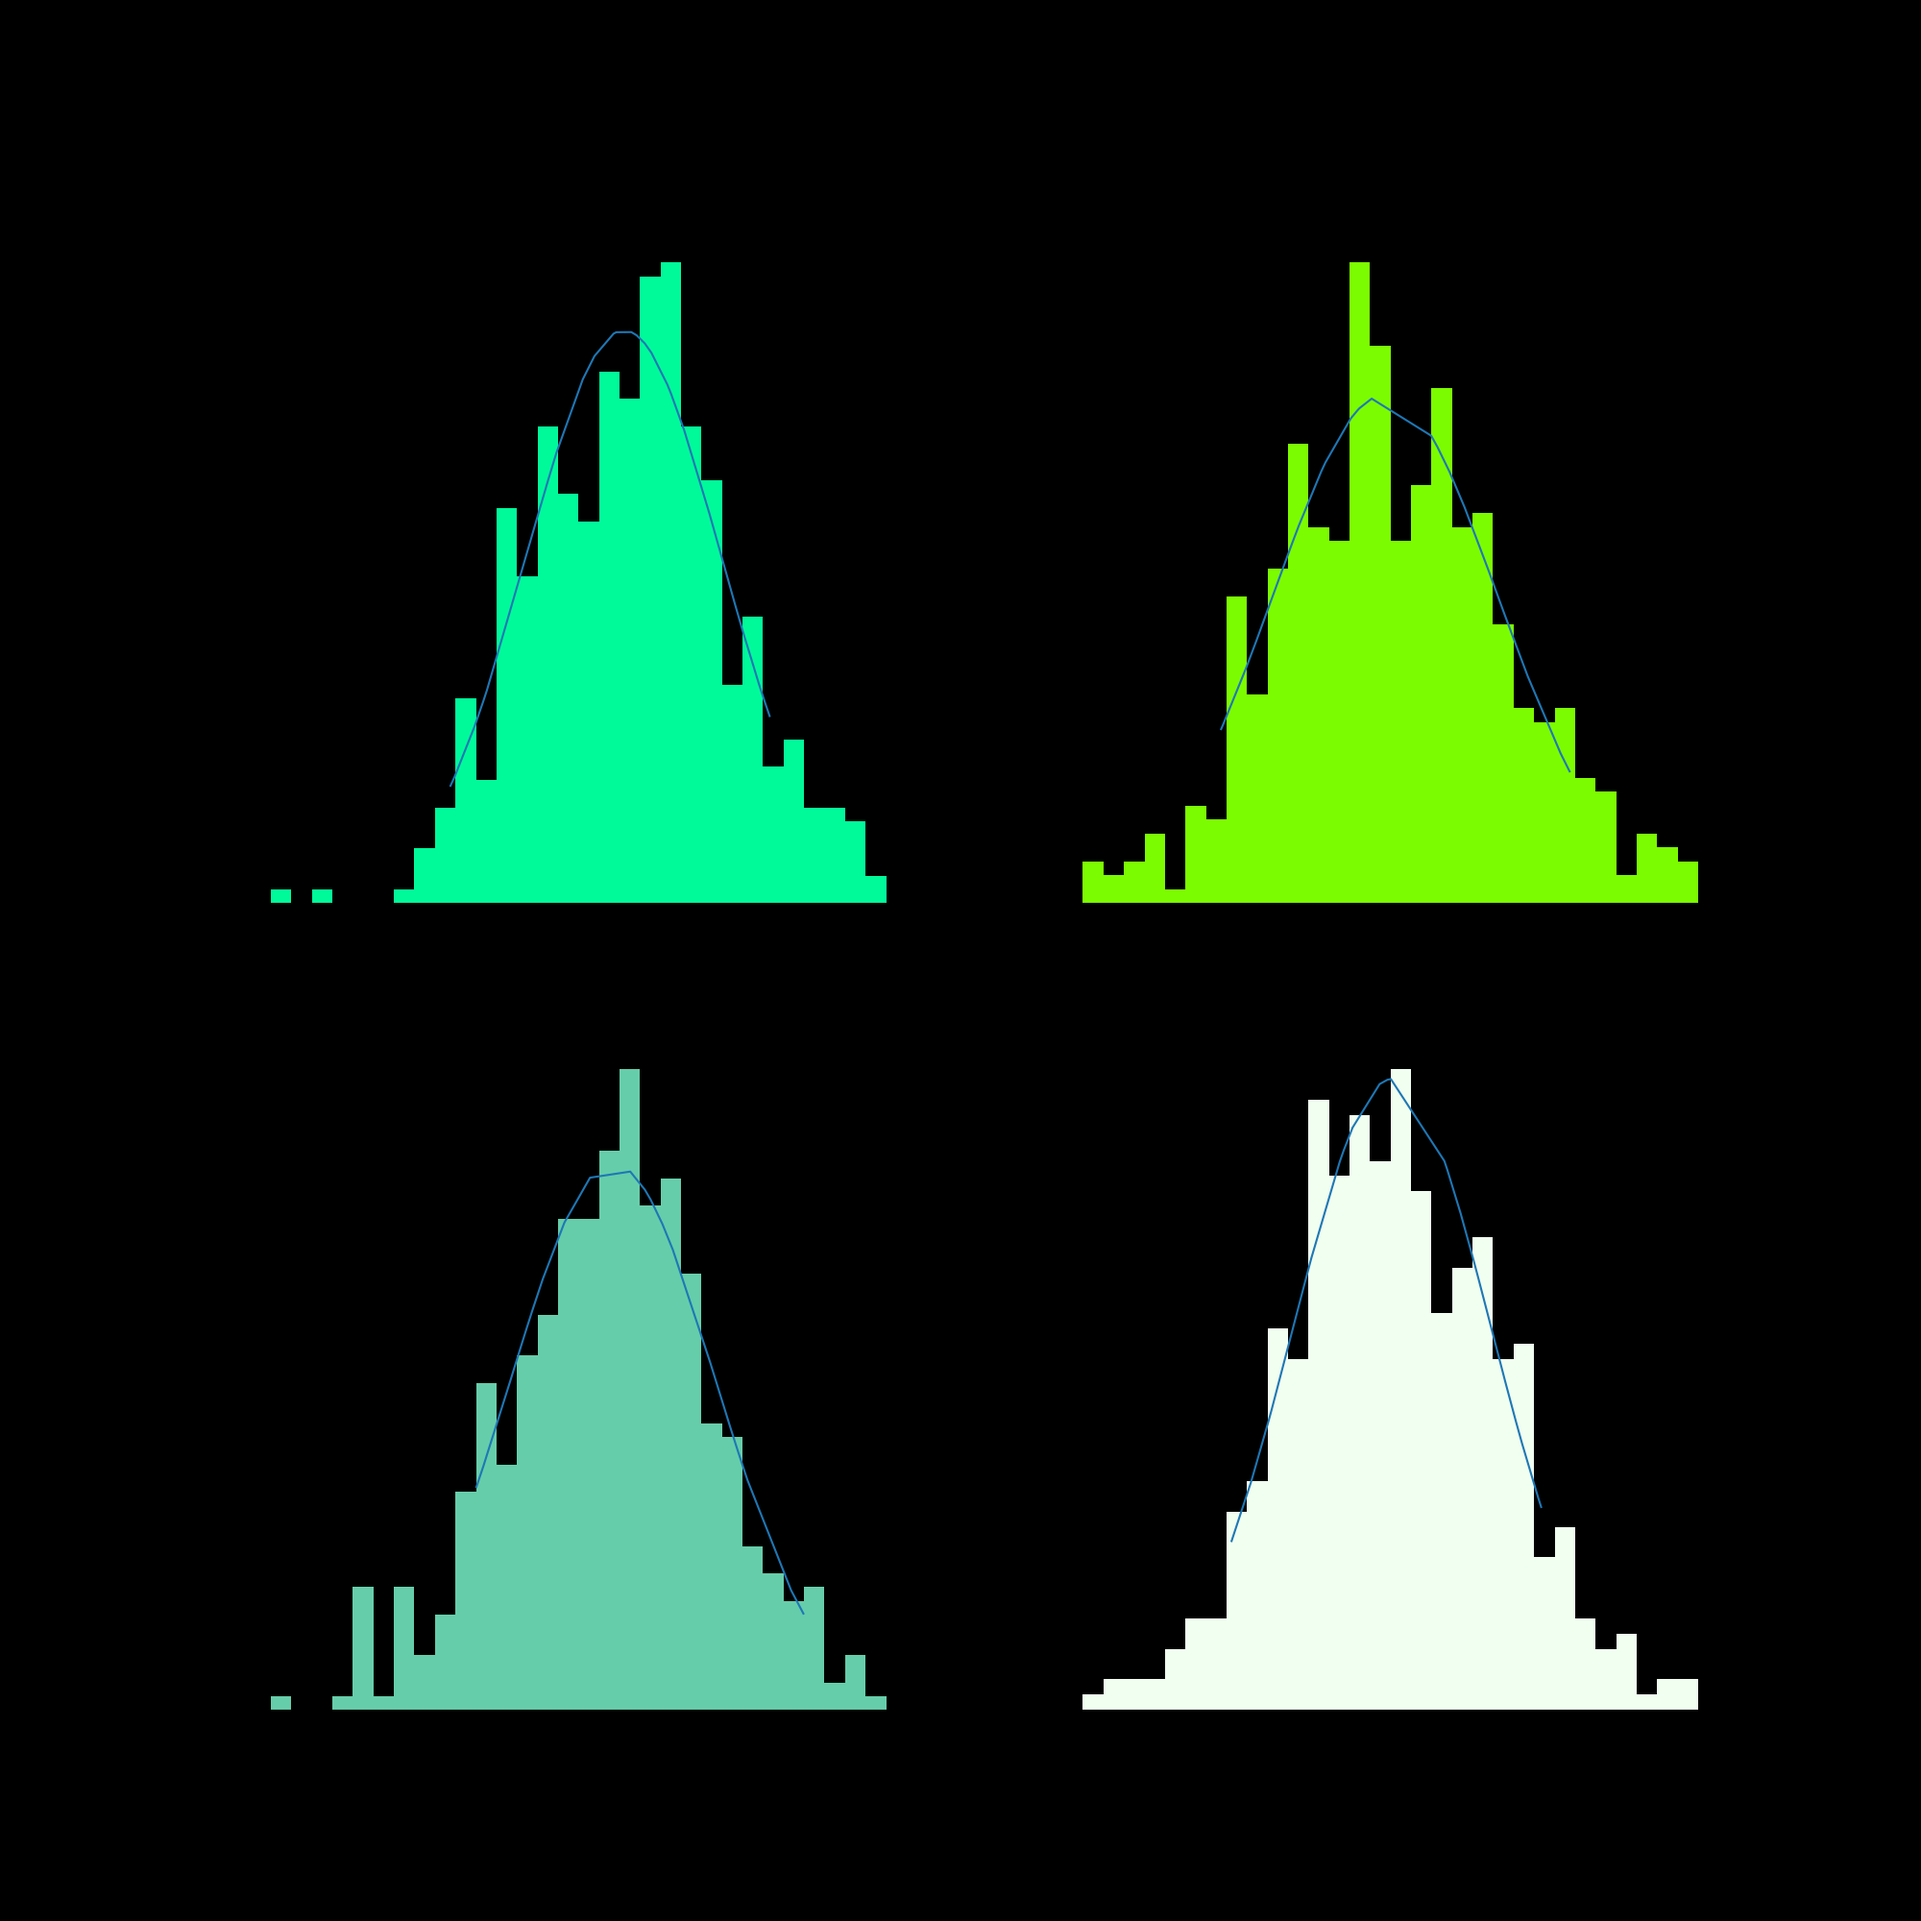
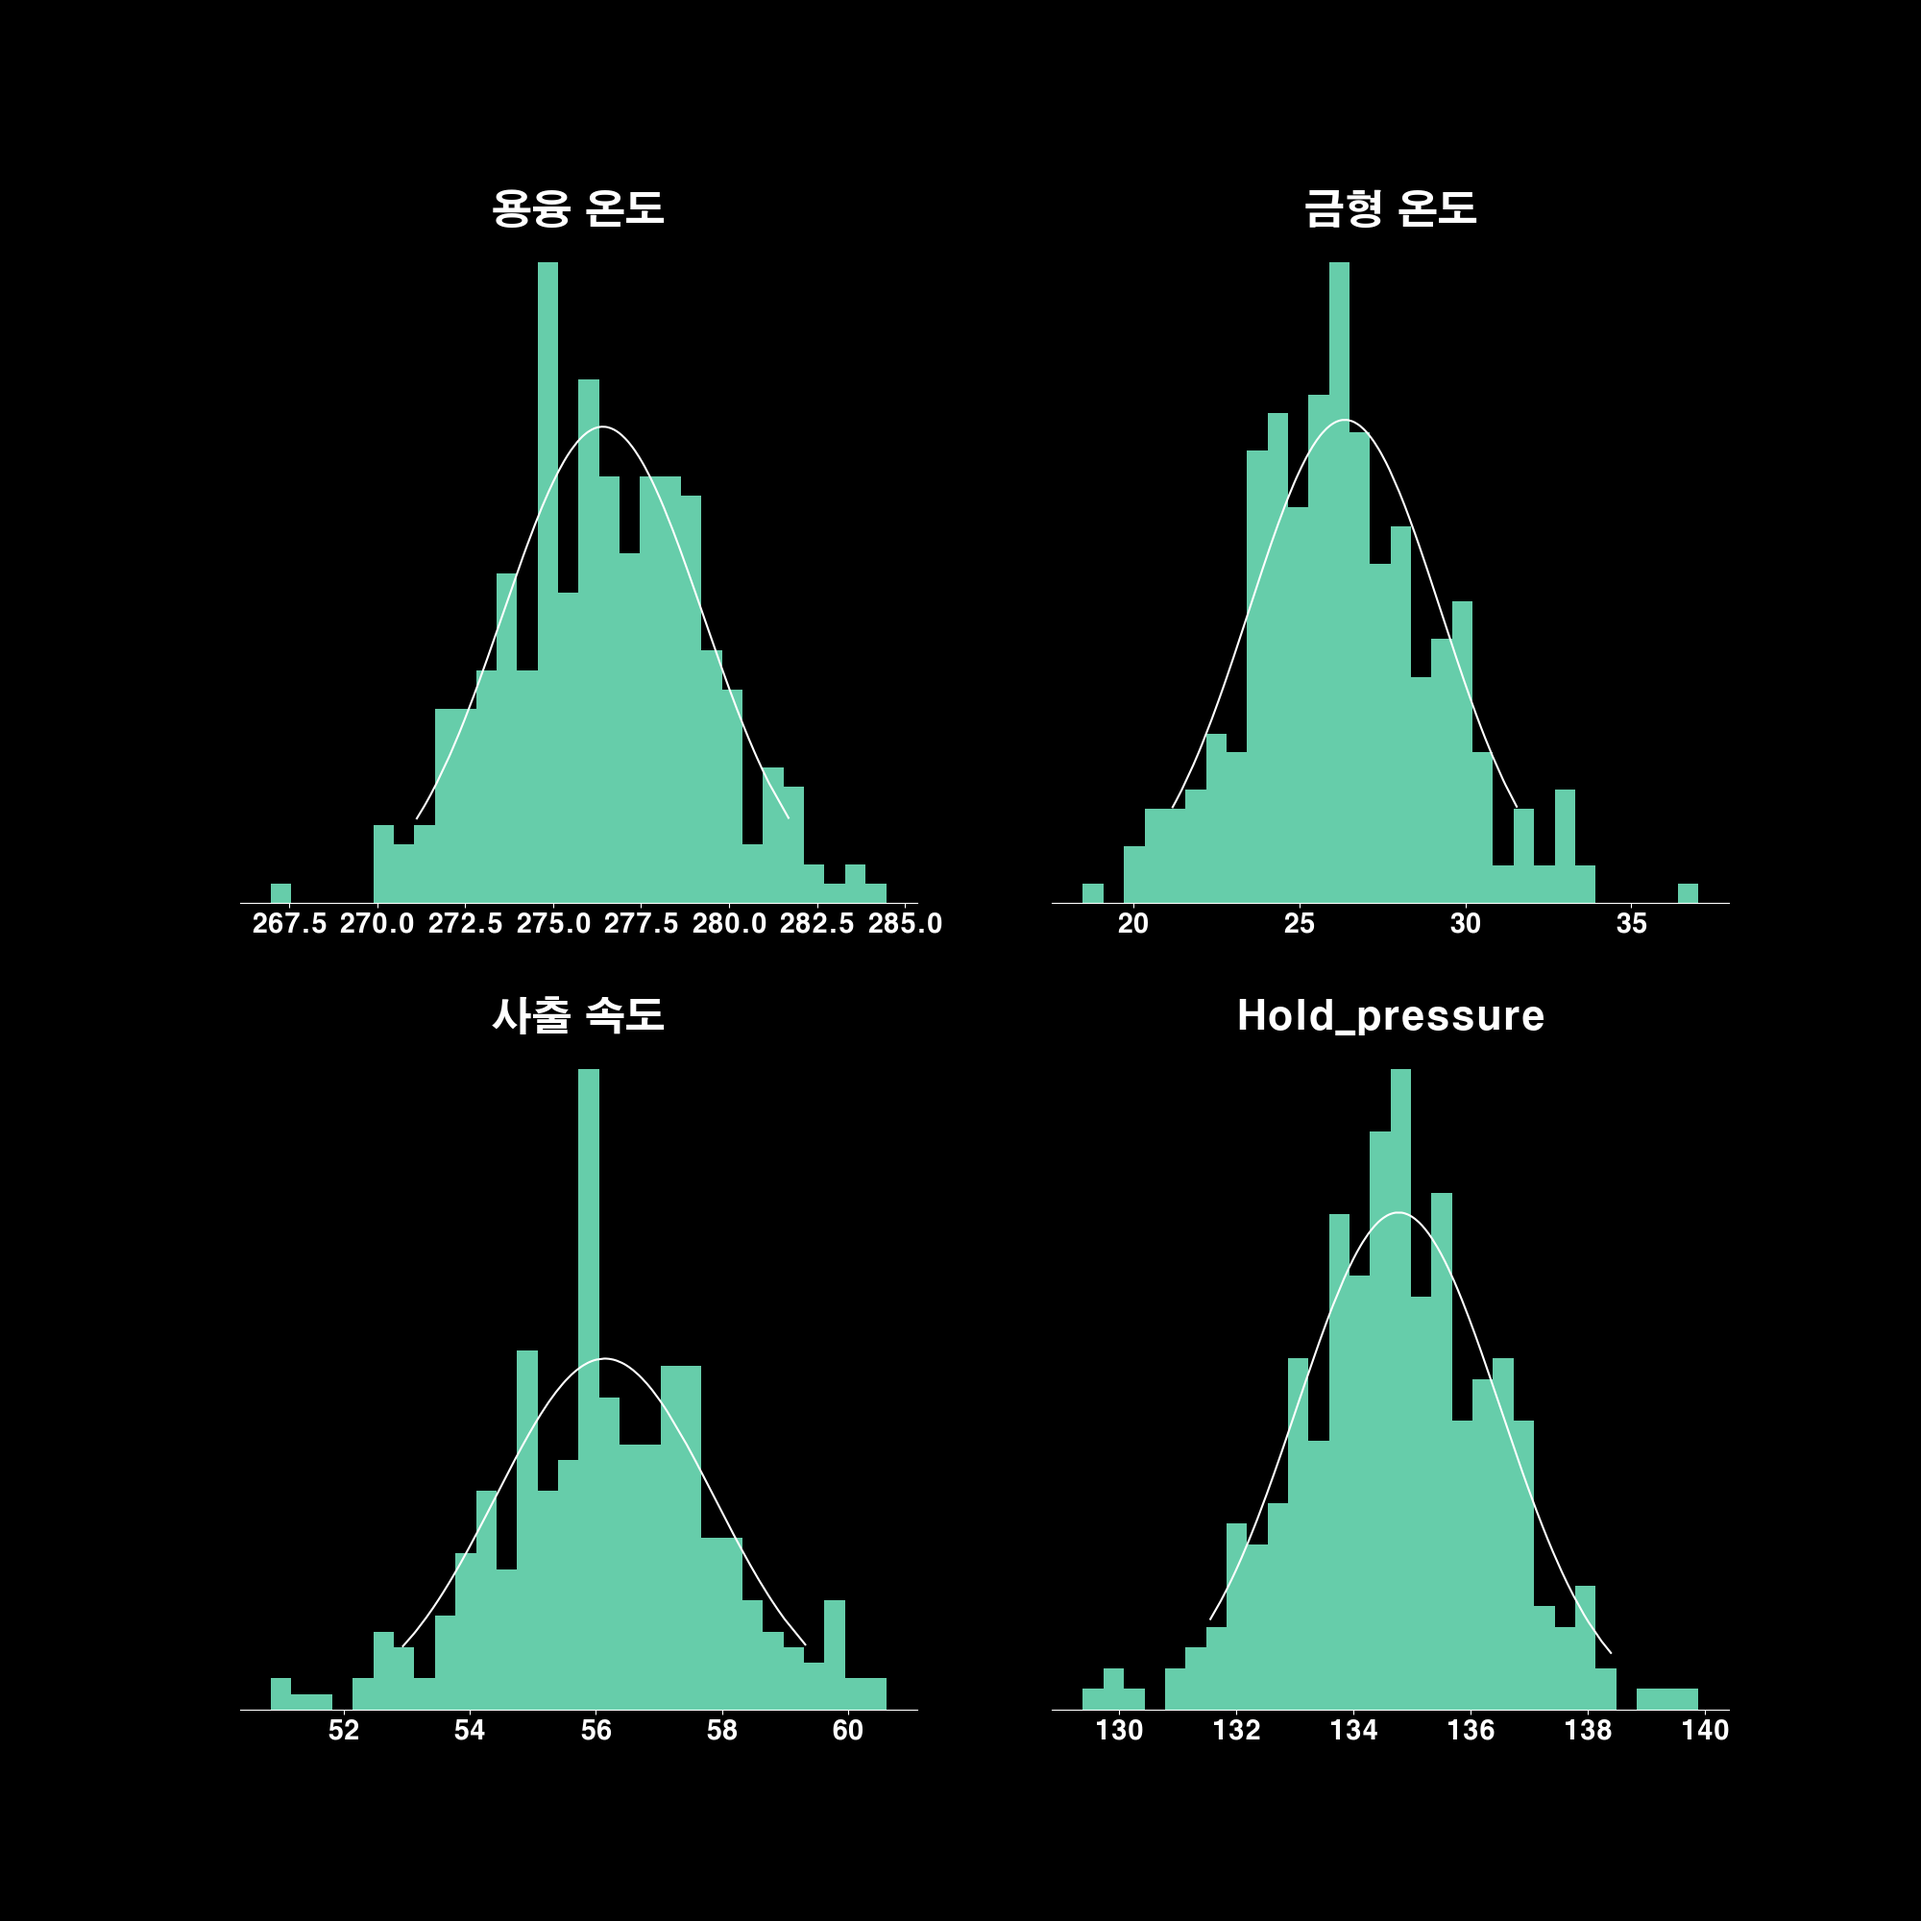
ckj

diff --git a/def.js b/def.js
@@ -33,15 +33,28 @@ router.get("/", function(req,res){
                 if(err){
                     console.log(err)
                 }else{
+                    if(result.length==0){
+                        yy = 0
+                        nn = 0
+                        crack = 0
+                        color = 0
+                        size = 0
+                    }else{
+                        yy = result[0].yy
+                        nn = result[0].nn
+                        crack = result[0].crack
+                        color = result[0].color
+                        size =  result[0].size
+                    }
                     res.render("defect",{
                         "defect" : result,
                         "linkcode" : req.session.logged.linkcode,
                         "run" : req.session.run,
-                        "Y" : result[0].yy,
-                        "N" : result[0].nn,
-                        "crack" : result[0].crack,
-                        "color" : result[0].color,
-                        "size" : result[0].size,
+                        "Y" : yy,
+                        "N" : nn,
+                        "crack" : crack,
+                        "color" : color,
+                        "size" : size,
                         "today" : today,
                         "lastM" : moment().subtract(1, 'M').format("YYYY-MM-DD")
                     })

diff --git a/pro.js b/pro.js
@@ -22,7 +22,7 @@ router.get("/",function(req,res){
             res.redirect("/alert")
         }else{
             connection.query(
-                `select * from performance order by order_id`,
+                `select * from performance order by order_id desc`,
                 function(err, result){
                     if(err){
                         console.log(err);
@@ -31,7 +31,8 @@ router.get("/",function(req,res){
                         res.render("product",{
                             "date" : date,
                             "performance" : result,
-                            "linkcode" : req.session.logged.linkcode
+                            "linkcode" : req.session.logged.linkcode,
+                            "date2" : moment().format("YYYYMMDD")
                         })
                     }
                 }
@@ -160,5 +161,6 @@ router.get("/register", function(req, res){
         }
     )
 })
+
 
 module.exports = router

diff --git a/update.js b/update.js
@@ -98,9 +98,8 @@ module.exports={
                                 if(err){
                                     console.log(err)
                                 }else{
-                                    var n=0;
+                                    var n=result[0].total;
                                     for (var i=0; i<result.length; i++){
-                                        n += result[i].quantity
                                         if (result[0].cnt<n){
                                             break
                                         }else if (result[0].cnt==n){

diff --git a/public/py/xchart.py b/public/py/xchart.py
@@ -4,6 +4,8 @@ import pymysql as mysql
 import datetime as dt
 import matplotlib.pyplot as plt
 import numpy as np
+import matplotlib.font_manager as fm
+from matplotlib import rc
 
 with open("db.json","r") as f:
     data = json.load(f)
@@ -47,34 +49,42 @@ mold_y = (1/np.sqrt(2*np.pi*mold_s**2)) * np.exp(-(mold_set-mold_m)**2/(2*mold_s
 melt_y = (1/np.sqrt(2*np.pi*melt_s**2)) * np.exp(-(melt_set-melt_m)**2/(2*melt_s**2))
 hold_y = (1/np.sqrt(2*np.pi*hold_s**2)) * np.exp(-(hold_set-hold_m)**2/(2*hold_s**2))
 inj_y = (1/np.sqrt(2*np.pi*inj_s**2)) * np.exp(-(inj_set-inj_m)**2/(2*inj_s**2))
-mold_y0 = np.random.normal(mold_m, mold_s, 500)
-melt_y0 = np.random.normal(melt_m, melt_s, 500)
-hold_y0 = np.random.normal(hold_m, hold_s, 500)
-inj_y0 = np.random.normal(inj_m, inj_s, 500)
+mold_y0 = np.random.normal(mold_m, mold_s, 300)
+melt_y0 = np.random.normal(melt_m, melt_s, 300)
+hold_y0 = np.random.normal(hold_m, hold_s, 300)
+inj_y0 = np.random.normal(inj_m, inj_s, 300)
 
+font=fm.FontProperties(fname='C:/Windows/Fonts/H2GTRE.TTF').get_name()
+rc('font',family=font)
 fig, ax = plt.subplots(2,2, figsize = (20,20))
-ax[0,0].set_facecolor("black")
-ax[0,0].xticks(color="white")
+
+ax[0,0].tick_params(axis="x",colors="white", labelsize=20)
 ax[0,0].spines['bottom'].set_color('white')
-ax[0,0].plot(melt_set,melt_y)
-ax[0,0].hist(melt_y0, density=True, bins=30, color="mediumspringgreen")
-ax[0,0].set_title("Melt_temp")
+ax[0,0].set_facecolor("black")
+ax[0,0].plot(melt_set,melt_y, color="white")
+ax[0,0].hist(melt_y0, density=True, bins=30, color="mediumaquamarine")
+ax[0,0].set_title("용융 온도", fontdict={'fontsize': 30, 'fontweight': 'bold'}, color="white")
 
+ax[0,1].tick_params(axis="x",colors="white", labelsize=20)
+ax[0,1].spines['bottom'].set_color('white')
 ax[0,1].set_facecolor("black")
-ax[0,1].plot(mold_set,mold_y)
-ax[0,1].hist(mold_y0, density=True, bins=30, color="lawngreen")
-ax[0,1].set_title("Mold_temp")
+ax[0,1].plot(mold_set,mold_y, color="white")
+ax[0,1].hist(mold_y0, density=True, bins=30, color="mediumaquamarine")
+ax[0,1].set_title("금형 온도", fontdict={'fontsize': 30, 'fontweight': 'bold'}, color="white")
 
+ax[1,0].tick_params(axis="x",colors="white", labelsize=20)
+ax[1,0].spines['bottom'].set_color('white')
 ax[1,0].set_facecolor("black")
-ax[1,0].plot(inj_set,inj_y)
+ax[1,0].plot(inj_set,inj_y, color="white")
 ax[1,0].hist(inj_y0, density=True, bins=30, color="mediumaquamarine")
-ax[1,0].set_title("Injection_speed")
+ax[1,0].set_title("사출 속도", fontdict={'fontsize': 30, 'fontweight': 'bold'}, color="white")
 
+ax[1,1].tick_params(axis="x",colors="white", labelsize=20)
+ax[1,1].spines['bottom'].set_color('white')
 ax[1,1].set_facecolor("black")
-ax[1,1].plot(hold_set,hold_y)
-ax[1,1].hist(hold_y0, density=True, bins=30, color="honeydew")
-ax[1,1].set_title("Hold_pressure")
-
+ax[1,1].plot(hold_set,hold_y, color="white")
+ax[1,1].hist(hold_y0, density=True, bins=30, color="mediumaquamarine")
+ax[1,1].set_title("보압", fontdict={'fontsize': 30, 'fontweight': 'bold'}, color="white")
 
 plt.savefig("./public/img/chart/"+t+".png", facecolor="black")
 
